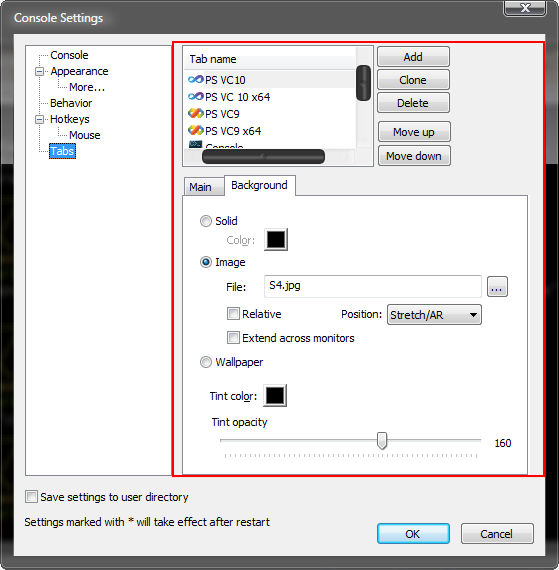
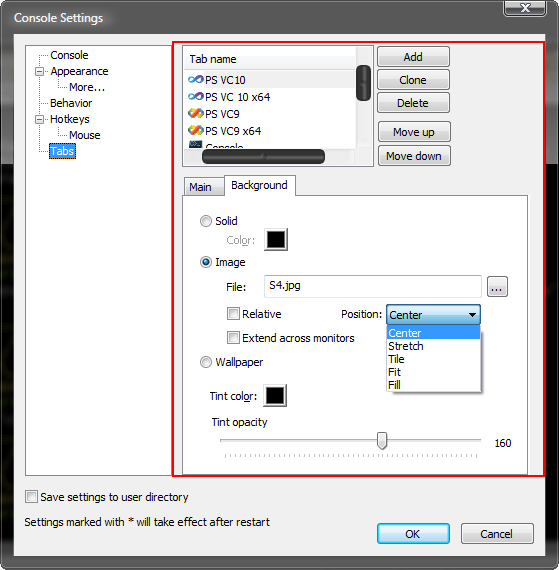
documentation update (v1.2.0)

Changed region(s): [[0.6691, 0.507, 0.8819, 0.7158]]

diff --git a/help/html/settings_tabs.html b/help/html/settings_tabs.html
@@ -124,7 +124,7 @@
 	<p class="block-row-name">Position</p>
 	<p class="block-row-description">
 		Select image position from the list. Background image can be centered,
-		stretched or tiled
+		stretched or tiled.<br />"Fit" and "Fill" options generate a stretched image, keeping aspect ratio.
 	</p>
 	<br />
 
